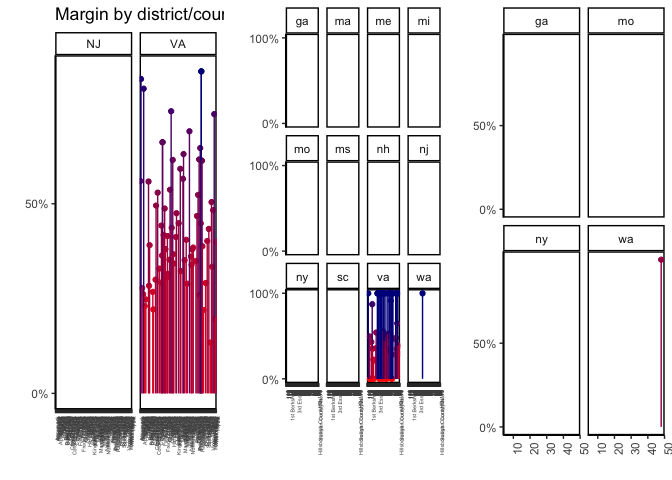
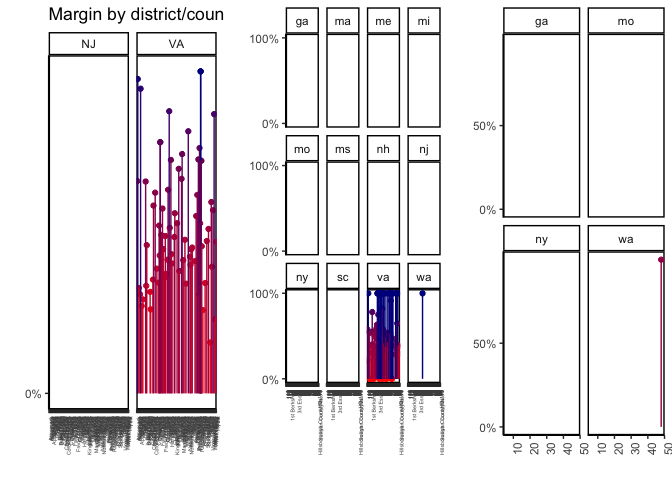
8

Changed region(s): [[0.0312, 0.0, 0.3438, 0.9688], [0.5312, 0.625, 0.5938, 0.7812]]

diff --git a/_posts/r_election_tracker.md b/_posts/r_election_tracker.md
@@ -273,46 +273,46 @@ Here is the data that goes into these graphs.
 | ny    | 27                         |        1.0000000|               NA|
 | ny    | 71                         |        0.8494000|               NA|
 | sc    | HD-113                     |        1.0000000|               NA|
-| va    | 1                          |       -1.0000000|               NA|
-| va    | 2                          |       -0.0200000|        0.8722972|
-| va    | 3                          |       -1.0000000|        0.2123392|
+| va    | 1                          |       -1.0000000|        0.2176395|
+| va    | 2                          |       -0.0200000|        0.7805985|
+| va    | 3                          |       -1.0000000|        0.2219124|
 | va    | 4                          |       -1.0000000|        0.0000000|
 | va    | 5                          |       -1.0000000|        0.0000000|
 | va    | 6                          |       -1.0000000|        0.0000000|
-| va    | 7                          |       -1.0000000|               NA|
-| va    | 8                          |       -1.0000000|               NA|
-| va    | 9                          |       -1.0000000|        0.4782602|
-| va    | 10                         |       -0.2400000|               NA|
+| va    | 7                          |       -1.0000000|        0.2698972|
+| va    | 8                          |       -1.0000000|        0.3966244|
+| va    | 9                          |       -1.0000000|        0.3805013|
+| va    | 10                         |       -0.2400000|        0.5773999|
 | va    | 11                         |        1.0000000|        0.9990010|
-| va    | 12                         |       -0.1600000|               NA|
-| va    | 13                         |       -0.1200000|        0.4960067|
+| va    | 12                         |       -0.1600000|        0.5495812|
+| va    | 13                         |       -0.1200000|        0.5344846|
 | va    | 14                         |       -1.0000000|        0.0000000|
 | va    | 15                         |       -1.0000000|        0.0000000|
 | va    | 16                         |       -1.0000000|        0.0000000|
-| va    | 17                         |       -1.0000000|               NA|
-| va    | 18                         |       -1.0000000|        0.4323751|
+| va    | 17                         |       -1.0000000|        0.3079663|
+| va    | 18                         |       -1.0000000|        0.3816126|
 | va    | 19                         |       -1.0000000|        0.0000000|
-| va    | 20                         |       -0.5200000|        0.3518682|
-| va    | 21                         |       -0.1400000|               NA|
+| va    | 20                         |       -0.5200000|        0.4026691|
+| va    | 21                         |       -0.1400000|        0.5527668|
 | va    | 22                         |       -1.0000000|        0.0000000|
-| va    | 23                         |       -1.0000000|        0.2246107|
+| va    | 23                         |       -1.0000000|        0.2224178|
 | va    | 24                         |       -0.4200000|        0.0000000|
-| va    | 25                         |       -0.3200000|               NA|
+| va    | 25                         |       -0.3200000|        0.2543960|
 | va    | 26                         |       -1.0000000|               NA|
-| va    | 27                         |       -0.1800000|               NA|
+| va    | 27                         |       -0.1800000|        0.5021084|
 | va    | 28                         |       -0.2000000|               NA|
-| va    | 29                         |       -1.0000000|               NA|
-| va    | 30                         |       -1.0000000|        0.3574452|
-| va    | 31                         |       -0.0600000|        0.5412160|
-| va    | 32                         |       -0.0600000|               NA|
-| va    | 33                         |       -0.2500000|               NA|
-| va    | 34                         |        0.0000000|               NA|
+| va    | 29                         |       -1.0000000|        0.3467149|
+| va    | 30                         |       -1.0000000|        0.3798161|
+| va    | 31                         |       -0.0600000|        0.5477247|
+| va    | 32                         |       -0.0600000|        0.5891949|
+| va    | 33                         |       -0.2500000|        0.4689659|
+| va    | 34                         |        0.0000000|        0.6328261|
 | va    | 35                         |        1.0000000|        0.9990010|
 | va    | 36                         |        1.0000000|        0.9990010|
 | va    | 37                         |        0.1400000|        0.9990010|
-| va    | 38                         |        0.5000000|               NA|
+| va    | 38                         |        0.5000000|        0.7499996|
 | va    | 39                         |        1.0000000|        0.9990010|
-| va    | 40                         |       -0.3000000|               NA|
+| va    | 40                         |       -0.3000000|        0.4403788|
 | va    | 41                         |        1.0000000|        0.9990010|
 | va    | 42                         |       -0.2600000|               NA|
 | va    | 43                         |        0.3094995|        0.9990010|
@@ -321,23 +321,23 @@ Here is the data that goes into these graphs.
 | va    | 46                         |        0.3430186|        0.9990010|
 | va    | 47                         |        0.5600000|        0.9990010|
 | va    | 48                         |        1.0000000|        0.9990010|
-| va    | 49                         |        1.0000000|               NA|
-| va    | 50                         |       -0.1800000|        0.5579867|
-| va    | 51                         |       -1.0000000|        0.4926946|
+| va    | 49                         |        1.0000000|        0.8202625|
+| va    | 50                         |       -0.1800000|        0.5811848|
+| va    | 51                         |       -1.0000000|        0.5200739|
 | va    | 52                         |        1.0000000|        0.9990010|
 | va    | 53                         |        1.0000000|        0.9990010|
-| va    | 54                         |       -1.0000000|               NA|
-| va    | 55                         |       -0.2000000|        0.4376965|
-| va    | 56                         |       -1.0000000|        0.3708360|
+| va    | 54                         |       -1.0000000|        0.4107049|
+| va    | 55                         |       -0.2000000|        0.4155523|
+| va    | 56                         |       -1.0000000|        0.4297990|
 | va    | 57                         |        1.0000000|        0.9990010|
-| va    | 58                         |       -1.0000000|        0.4344182|
-| va    | 59                         |       -1.0000000|        0.3688885|
-| va    | 60                         |       -1.0000000|        0.4852994|
+| va    | 58                         |       -1.0000000|        0.3698424|
+| va    | 59                         |       -1.0000000|        0.3134422|
+| va    | 60                         |       -1.0000000|        0.4788937|
 | va    | 61                         |       -0.4200000|        0.0000000|
-| va    | 62                         |       -0.2000000|               NA|
+| va    | 62                         |       -0.2000000|        0.5383739|
 | va    | 63                         |        1.0000000|        0.9990010|
-| va    | 64                         |       -1.0000000|        0.3249988|
-| va    | 65                         |       -1.0000000|        0.5216957|
+| va    | 64                         |       -1.0000000|        0.3791542|
+| va    | 65                         |       -1.0000000|        0.4240249|
 | va    | 66                         |       -1.0000000|               NA|
 | va    | 67                         |       -1.0000000|               NA|
 | va    | 68                         |       -0.2478476|               NA|

diff --git a/_posts/2017-11-07-election_tracker.md b/_posts/2017-11-07-election_tracker.md
@@ -294,46 +294,46 @@ Here is the data that goes into these graphs.
 |ny    |27                         |       1.0000000|              NA|
 |ny    |71                         |       0.8494000|              NA|
 |sc    |HD-113                     |       1.0000000|              NA|
-|va    |1                          |      -1.0000000|              NA|
-|va    |2                          |      -0.0200000|       0.8722972|
-|va    |3                          |      -1.0000000|       0.2123392|
+|va    |1                          |      -1.0000000|       0.2176395|
+|va    |2                          |      -0.0200000|       0.7805985|
+|va    |3                          |      -1.0000000|       0.2219124|
 |va    |4                          |      -1.0000000|       0.0000000|
 |va    |5                          |      -1.0000000|       0.0000000|
 |va    |6                          |      -1.0000000|       0.0000000|
-|va    |7                          |      -1.0000000|              NA|
-|va    |8                          |      -1.0000000|              NA|
-|va    |9                          |      -1.0000000|       0.4782602|
-|va    |10                         |      -0.2400000|              NA|
+|va    |7                          |      -1.0000000|       0.2698972|
+|va    |8                          |      -1.0000000|       0.3966244|
+|va    |9                          |      -1.0000000|       0.3805013|
+|va    |10                         |      -0.2400000|       0.5773999|
 |va    |11                         |       1.0000000|       0.9990010|
-|va    |12                         |      -0.1600000|              NA|
-|va    |13                         |      -0.1200000|       0.4960067|
+|va    |12                         |      -0.1600000|       0.5495812|
+|va    |13                         |      -0.1200000|       0.5344846|
 |va    |14                         |      -1.0000000|       0.0000000|
 |va    |15                         |      -1.0000000|       0.0000000|
 |va    |16                         |      -1.0000000|       0.0000000|
-|va    |17                         |      -1.0000000|              NA|
-|va    |18                         |      -1.0000000|       0.4323751|
+|va    |17                         |      -1.0000000|       0.3079663|
+|va    |18                         |      -1.0000000|       0.3816126|
 |va    |19                         |      -1.0000000|       0.0000000|
-|va    |20                         |      -0.5200000|       0.3518682|
-|va    |21                         |      -0.1400000|              NA|
+|va    |20                         |      -0.5200000|       0.4026691|
+|va    |21                         |      -0.1400000|       0.5527668|
 |va    |22                         |      -1.0000000|       0.0000000|
-|va    |23                         |      -1.0000000|       0.2246107|
+|va    |23                         |      -1.0000000|       0.2224178|
 |va    |24                         |      -0.4200000|       0.0000000|
-|va    |25                         |      -0.3200000|              NA|
+|va    |25                         |      -0.3200000|       0.2543960|
 |va    |26                         |      -1.0000000|              NA|
-|va    |27                         |      -0.1800000|              NA|
+|va    |27                         |      -0.1800000|       0.5021084|
 |va    |28                         |      -0.2000000|              NA|
-|va    |29                         |      -1.0000000|              NA|
-|va    |30                         |      -1.0000000|       0.3574452|
-|va    |31                         |      -0.0600000|       0.5412160|
-|va    |32                         |      -0.0600000|              NA|
-|va    |33                         |      -0.2500000|              NA|
-|va    |34                         |       0.0000000|              NA|
+|va    |29                         |      -1.0000000|       0.3467149|
+|va    |30                         |      -1.0000000|       0.3798161|
+|va    |31                         |      -0.0600000|       0.5477247|
+|va    |32                         |      -0.0600000|       0.5891949|
+|va    |33                         |      -0.2500000|       0.4689659|
+|va    |34                         |       0.0000000|       0.6328261|
 |va    |35                         |       1.0000000|       0.9990010|
 |va    |36                         |       1.0000000|       0.9990010|
 |va    |37                         |       0.1400000|       0.9990010|
-|va    |38                         |       0.5000000|              NA|
+|va    |38                         |       0.5000000|       0.7499996|
 |va    |39                         |       1.0000000|       0.9990010|
-|va    |40                         |      -0.3000000|              NA|
+|va    |40                         |      -0.3000000|       0.4403788|
 |va    |41                         |       1.0000000|       0.9990010|
 |va    |42                         |      -0.2600000|              NA|
 |va    |43                         |       0.3094995|       0.9990010|
@@ -342,23 +342,23 @@ Here is the data that goes into these graphs.
 |va    |46                         |       0.3430186|       0.9990010|
 |va    |47                         |       0.5600000|       0.9990010|
 |va    |48                         |       1.0000000|       0.9990010|
-|va    |49                         |       1.0000000|              NA|
-|va    |50                         |      -0.1800000|       0.5579867|
-|va    |51                         |      -1.0000000|       0.4926946|
+|va    |49                         |       1.0000000|       0.8202625|
+|va    |50                         |      -0.1800000|       0.5811848|
+|va    |51                         |      -1.0000000|       0.5200739|
 |va    |52                         |       1.0000000|       0.9990010|
 |va    |53                         |       1.0000000|       0.9990010|
-|va    |54                         |      -1.0000000|              NA|
-|va    |55                         |      -0.2000000|       0.4376965|
-|va    |56                         |      -1.0000000|       0.3708360|
+|va    |54                         |      -1.0000000|       0.4107049|
+|va    |55                         |      -0.2000000|       0.4155523|
+|va    |56                         |      -1.0000000|       0.4297990|
 |va    |57                         |       1.0000000|       0.9990010|
-|va    |58                         |      -1.0000000|       0.4344182|
-|va    |59                         |      -1.0000000|       0.3688885|
-|va    |60                         |      -1.0000000|       0.4852994|
+|va    |58                         |      -1.0000000|       0.3698424|
+|va    |59                         |      -1.0000000|       0.3134422|
+|va    |60                         |      -1.0000000|       0.4788937|
 |va    |61                         |      -0.4200000|       0.0000000|
-|va    |62                         |      -0.2000000|              NA|
+|va    |62                         |      -0.2000000|       0.5383739|
 |va    |63                         |       1.0000000|       0.9990010|
-|va    |64                         |      -1.0000000|       0.3249988|
-|va    |65                         |      -1.0000000|       0.5216957|
+|va    |64                         |      -1.0000000|       0.3791542|
+|va    |65                         |      -1.0000000|       0.4240249|
 |va    |66                         |      -1.0000000|              NA|
 |va    |67                         |      -1.0000000|              NA|
 |va    |68                         |      -0.2478476|              NA|
